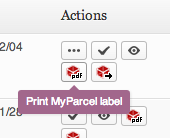
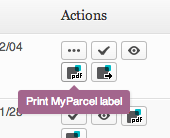
Version 1.3.0
git-svn-id: https://plugins.svn.wordpress.org/woocommerce-myparcel/trunk@840273 b8457f37-d9ea-0310-8a92-e5e31aec5664

diff --git a/js/nl-account-page.js b/js/nl-account-page.js
@@ -1,0 +1,32 @@
+jQuery(document).ready(function($) {
+
+	function localize_address_fields (address_type) {
+		// Hide custom NL fields by default when country not NL
+		var country = $('#'+address_type+'_country').val();
+		if (typeof country != 'undefined') {		
+			if (country != 'NL') {
+				$('#'+address_type+'_street_name_field').hide();
+				$('#'+address_type+'_house_number_field').hide();
+				$('#'+address_type+'_house_number_suffix_field').hide();
+				$('#'+address_type+'_address_1_field').show();
+				$('#'+address_type+'_address_2_field').show();				
+			} else {
+				$('#'+address_type+'_street_name_field').show();
+				$('#'+address_type+'_house_number_field').show();
+				$('#'+address_type+'_house_number_suffix_field').show();
+				$('#'+address_type+'_address_1_field').hide();
+				$('#'+address_type+'_address_2_field').hide();				
+			}
+		}
+	}
+
+	localize_address_fields('billing');
+	localize_address_fields('shipping');
+
+	$( '#billing_country, #shipping_country' ).change(function() {
+		id = $(this).attr('id');
+		address_type = 	id.replace('_country','');
+		localize_address_fields(address_type);
+	});
+
+});

diff --git a/css/wcmyparcel-admin-styles-wc21.css b/css/wcmyparcel-admin-styles-wc21.css
@@ -42,8 +42,10 @@ dl.variation dd, dl.variation dt{
 }
 
 .widefat .column-order_actions a.button.one-myparcel {
-	float:left;
-	padding: 1px 2px;
+	float: left;
+	width: 26px;
+	height: 26px;
+	padding: 3px 2px;
 }
 
 .widefat .column-order_actions a.button.one-myparcel img {

diff --git a/includes/wcmyparcel-writepanel.php b/includes/wcmyparcel-writepanel.php
@@ -108,17 +108,17 @@ class WC_MyParcel_Writepanel {
 		if (!empty($consignment_id)) {
 			$pdf_link = wp_nonce_url( admin_url( 'edit.php?&action=wcmyparcel-label&order_ids=' . $order->id ), 'wcmyparcel-label' );
 			?>
-			<a href="<?php echo $pdf_link; ?>" class="button tips" alt="Print MyParcel label" data-tip="Print MyParcel label" style="float:left;padding:1px 2px;">
-				<img src="<?php echo dirname(plugin_dir_url(__FILE__)) . '/img/myparcel-pdf.png'; ?>" alt="Print MyParcel label" width="14px" style="width:16px;height:auto;">
+			<a href="<?php echo $pdf_link; ?>" class="button tips" alt="Print MyParcel label" data-tip="Print MyParcel label">
+				<img src="<?php echo dirname(plugin_dir_url(__FILE__)) . '/img/myparcel-pdf.png'; ?>" alt="Print MyParcel label">
 			</a>
-			<a href="<?php echo wp_nonce_url( admin_url( 'edit.php?&action=wcmyparcel&order_ids=' . $order->id ), 'wcmyparcel' ); ?>" class="button tips one-myparcel" alt="Exporteer naar MyParcel" data-tip="Exporteer naar MyParcel" style="float:left;padding:1px 2px;">
-				<img src="<?php echo dirname(plugin_dir_url(__FILE__)) . '/img/myparcel-up.png'; ?>" alt="Exporteer naar MyParcel" width="14px" style="width:16px;height:auto;">
+			<a href="<?php echo wp_nonce_url( admin_url( 'edit.php?&action=wcmyparcel&order_ids=' . $order->id ), 'wcmyparcel' ); ?>" class="button tips one-myparcel" alt="Exporteer naar MyParcel" data-tip="Exporteer naar MyParcel">
+				<img src="<?php echo dirname(plugin_dir_url(__FILE__)) . '/img/myparcel-up.png'; ?>" alt="Exporteer naar MyParcel">
 			</a>
 			<?php
 		} else {
 			?>
-			<a href="<?php echo wp_nonce_url( admin_url( 'edit.php?&action=wcmyparcel&order_ids=' . $order->id ), 'wcmyparcel' ); ?>" class="button tips one-myparcel" alt="Exporteer naar MyParcel" data-tip="Exporteer naar MyParcel" style="float:left;padding:1px 2px;">
-				<img src="<?php echo dirname(plugin_dir_url(__FILE__)) . '/img/myparcel-up.png'; ?>" alt="Exporteer naar MyParcel" width="14px" style="width:16px;height:auto;">
+			<a href="<?php echo wp_nonce_url( admin_url( 'edit.php?&action=wcmyparcel&order_ids=' . $order->id ), 'wcmyparcel' ); ?>" class="button tips one-myparcel" alt="Exporteer naar MyParcel" data-tip="Exporteer naar MyParcel">
+				<img src="<?php echo dirname(plugin_dir_url(__FILE__)) . '/img/myparcel-up.png'; ?>" alt="Exporteer naar MyParcel">
 			</a>
 			<?php
 			

diff --git a/woocommerce-myparcel.php b/woocommerce-myparcel.php
@@ -5,7 +5,7 @@ Plugin URI: http://www.myparcel.nl
 Description: Export your WooCommerce orders to MyParcel (www.myparcel.nl) and print labels directly from the WooCommerce admin
 Author: Ewout Fernhout
 Author URI: http://www.wpovernight.com
-Version: 1.2.0
+Version: 1.3.0
 Text Domain: wcmyparcel
 
 License: GPLv3 or later
@@ -62,7 +62,15 @@ if ( !class_exists( 'WooCommerce_MyParcel_Export' ) ) {
 				wp_enqueue_script( 'thickbox' );
 				wp_enqueue_style( 'thickbox' );
 				wp_enqueue_script( 'wcmyparcel-export', plugin_dir_url(__FILE__) . 'js/wcmyparcel-script.js', array( 'jquery', 'thickbox' ) );
-				wp_register_style( 'wcmyparcel-admin-styles', plugins_url( '/css/wcmyparcel-admin-styles.css', __FILE__ ), array(), '', 'all' );
+
+				if ( version_compare( WOOCOMMERCE_VERSION, '2.1', '<=' ) ) {
+					// Old versions
+					wp_register_style( 'wcmyparcel-admin-styles', plugins_url( '/css/wcmyparcel-admin-styles.css', __FILE__ ), array(), '', 'all' );
+				} else {
+					// WC 2.1+, MP6 style with larger buttons
+					wp_register_style( 'wcmyparcel-admin-styles', plugins_url( '/css/wcmyparcel-admin-styles-wc21.css', __FILE__ ), array(), '', 'all' );
+				}				
+
 				wp_enqueue_style( 'wcmyparcel-admin-styles' );  
 			}
 		}

diff --git a/includes/wcmyparcel-nlpostcode-fields.php b/includes/wcmyparcel-nlpostcode-fields.php
@@ -62,13 +62,14 @@ class WC_NLPostcode_Fields {
 				// Backwards compatibility for https://github.com/woothemes/woocommerce/issues/4239
 				wp_register_script( 'nl-checkout', (dirname(plugin_dir_url(__FILE__)) . '/js/nl-checkout.js'), array( 'wc-checkout' ) );
 				wp_enqueue_script( 'nl-checkout' );
+
+				if ( is_account_page() ) {
+					// Disable regular address fields for NL on account page - Fixed in WC 2.1
+					wp_register_script( 'nl-account-page', (dirname(plugin_dir_url(__FILE__)) . '/js/nl-account-page.js'), array( 'jquery' ) );
+					wp_enqueue_script( 'nl-account-page' );
+				}
 			}
 
-			if (is_account_page()) {
-				// Disable regular address fields for NL on account page
-				wp_register_script( 'nl-account-page', (dirname(plugin_dir_url(__FILE__)) . '/js/nl-account-page.js'), array( 'jquery' ) );
-				wp_enqueue_script( 'nl-account-page' );
-			}
 
 			wp_enqueue_style( 'nl-checkout', (dirname(plugin_dir_url(__FILE__)) . '/css/nl-checkout.css') );
 		}

diff --git a/includes/wcmyparcel-settings.php b/includes/wcmyparcel-settings.php
@@ -41,14 +41,6 @@ class WC_MyParcel_Settings {
 	
 	/**
 	 * User settings.
-	 *
-	 * Partnerid
-	 * Brief of pakket
-	 * Standaard gewicht
-	 * Aangetekend (ja/nee)
-	 * Kenmerk
-	 * Email doorgeven 
-	 * 
 	 */
 	
 	public function init_settings() {
